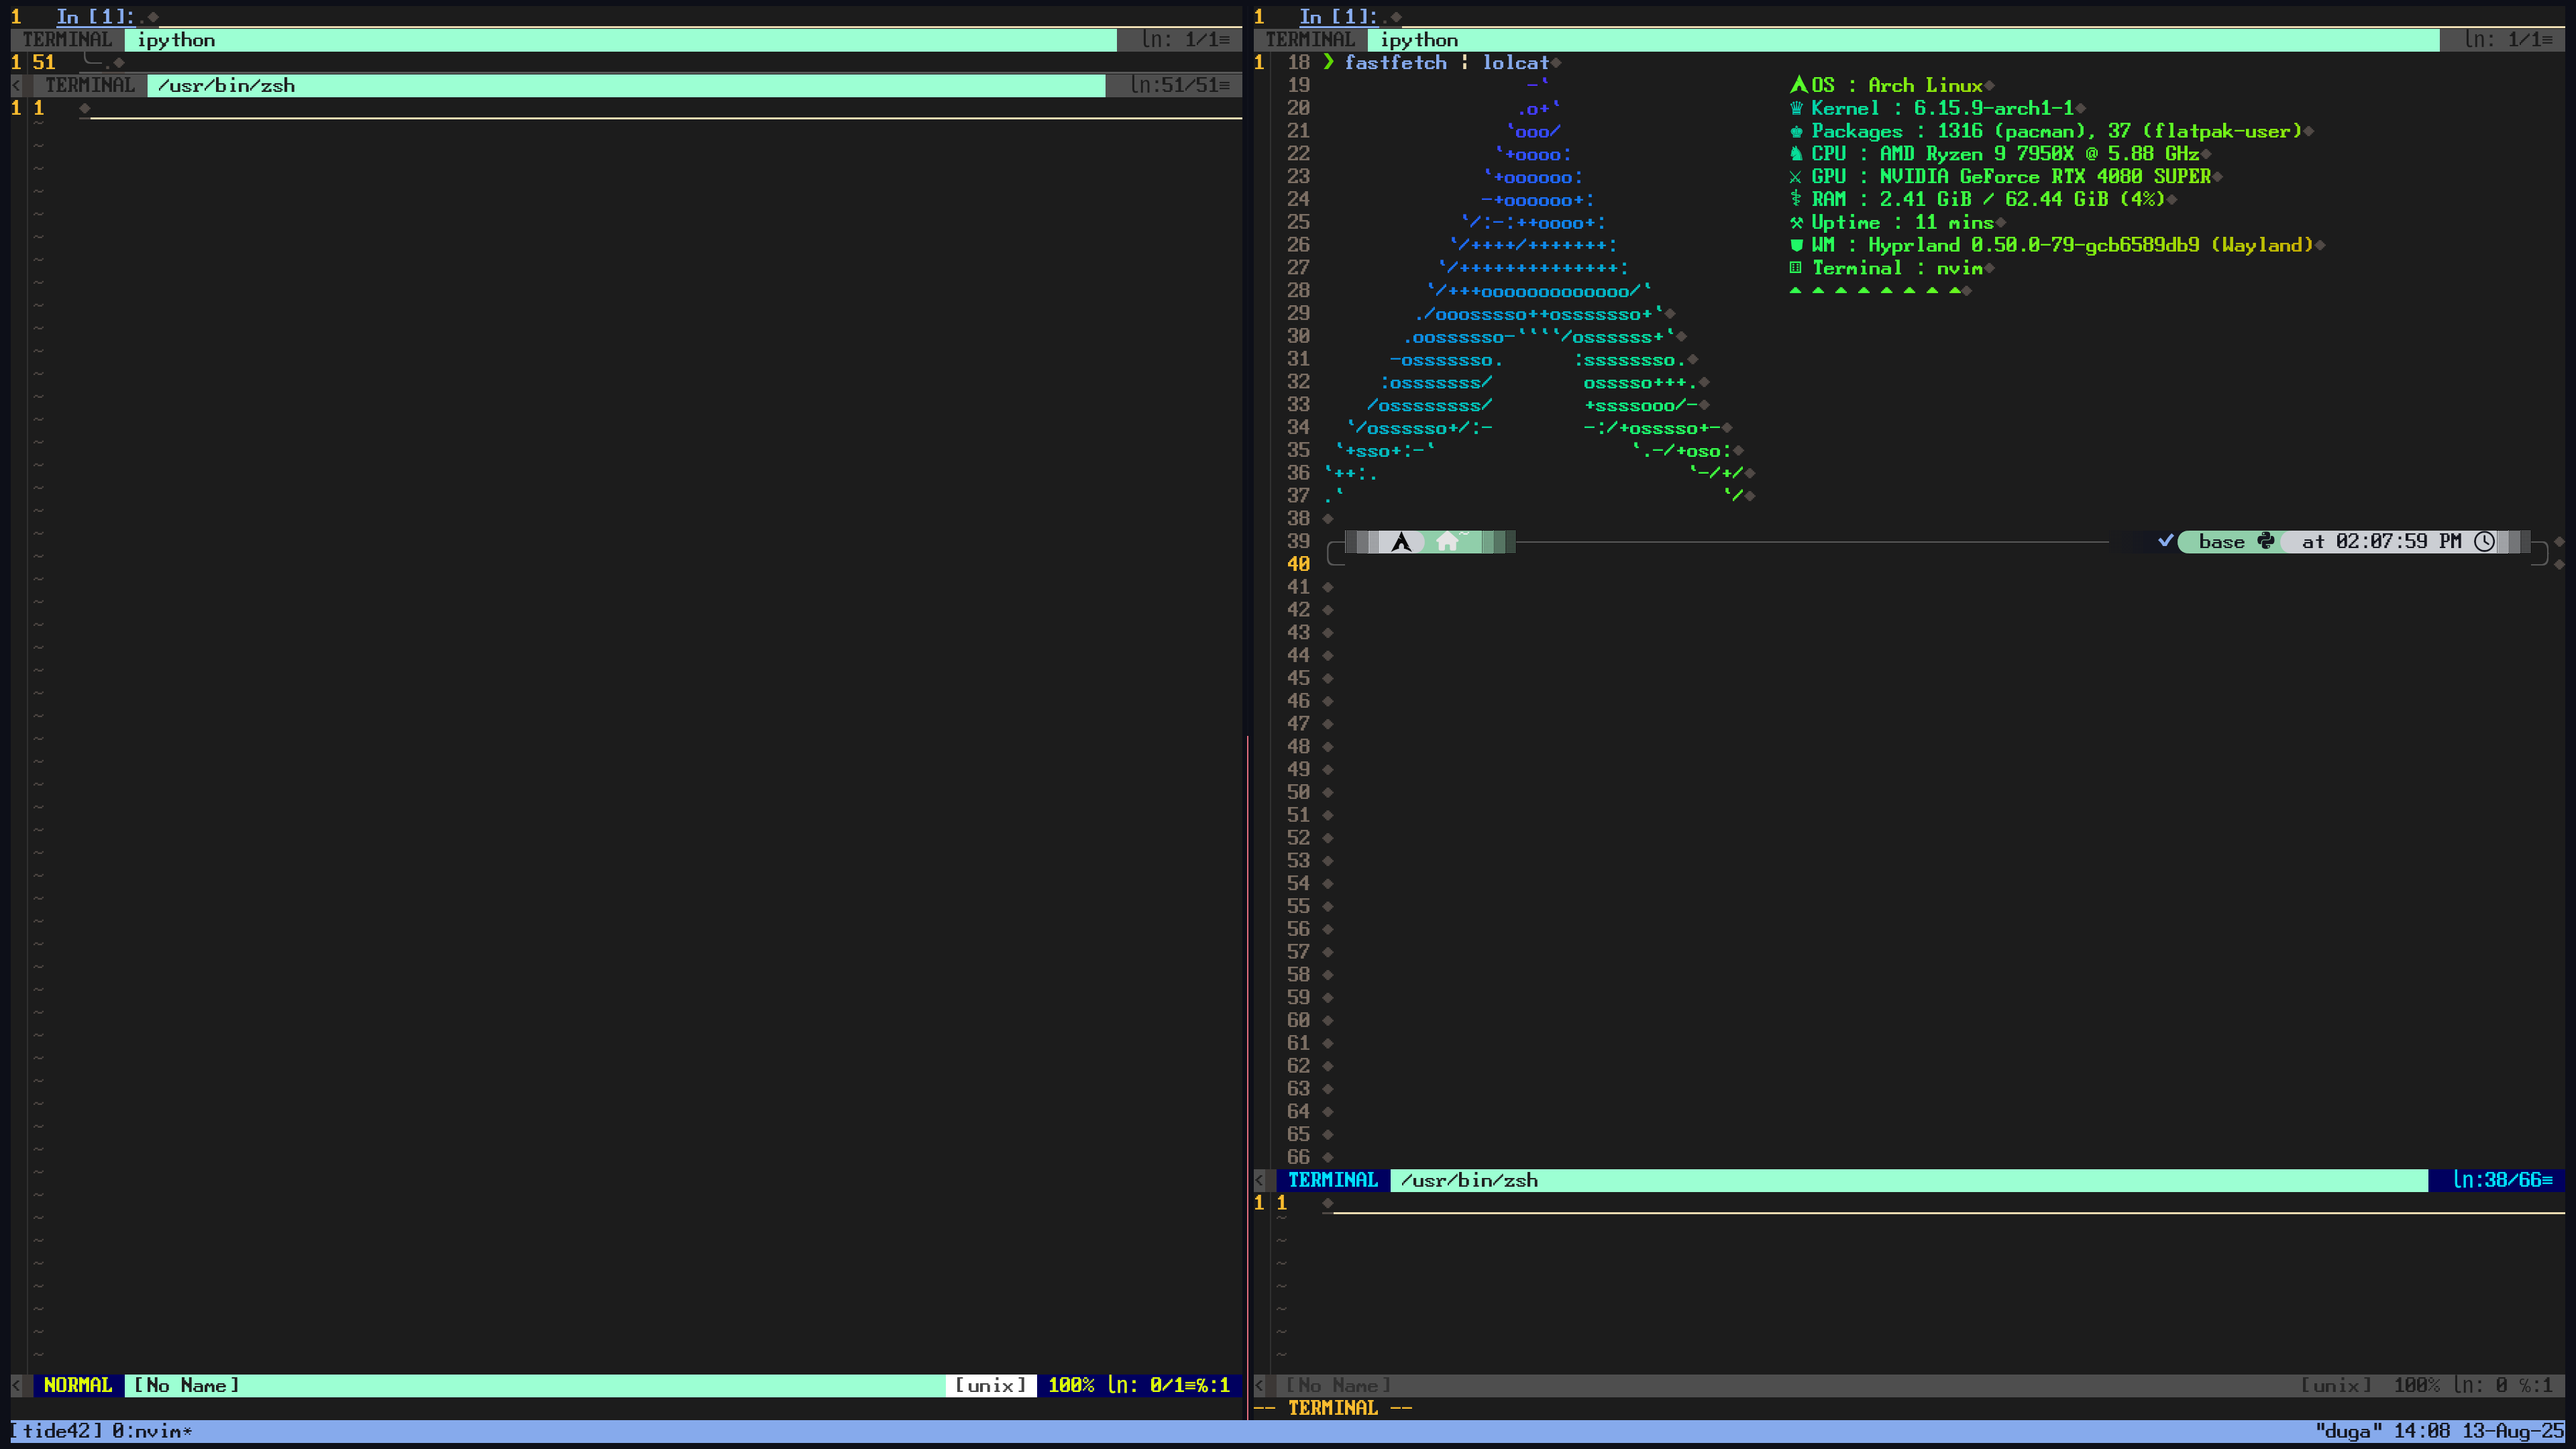
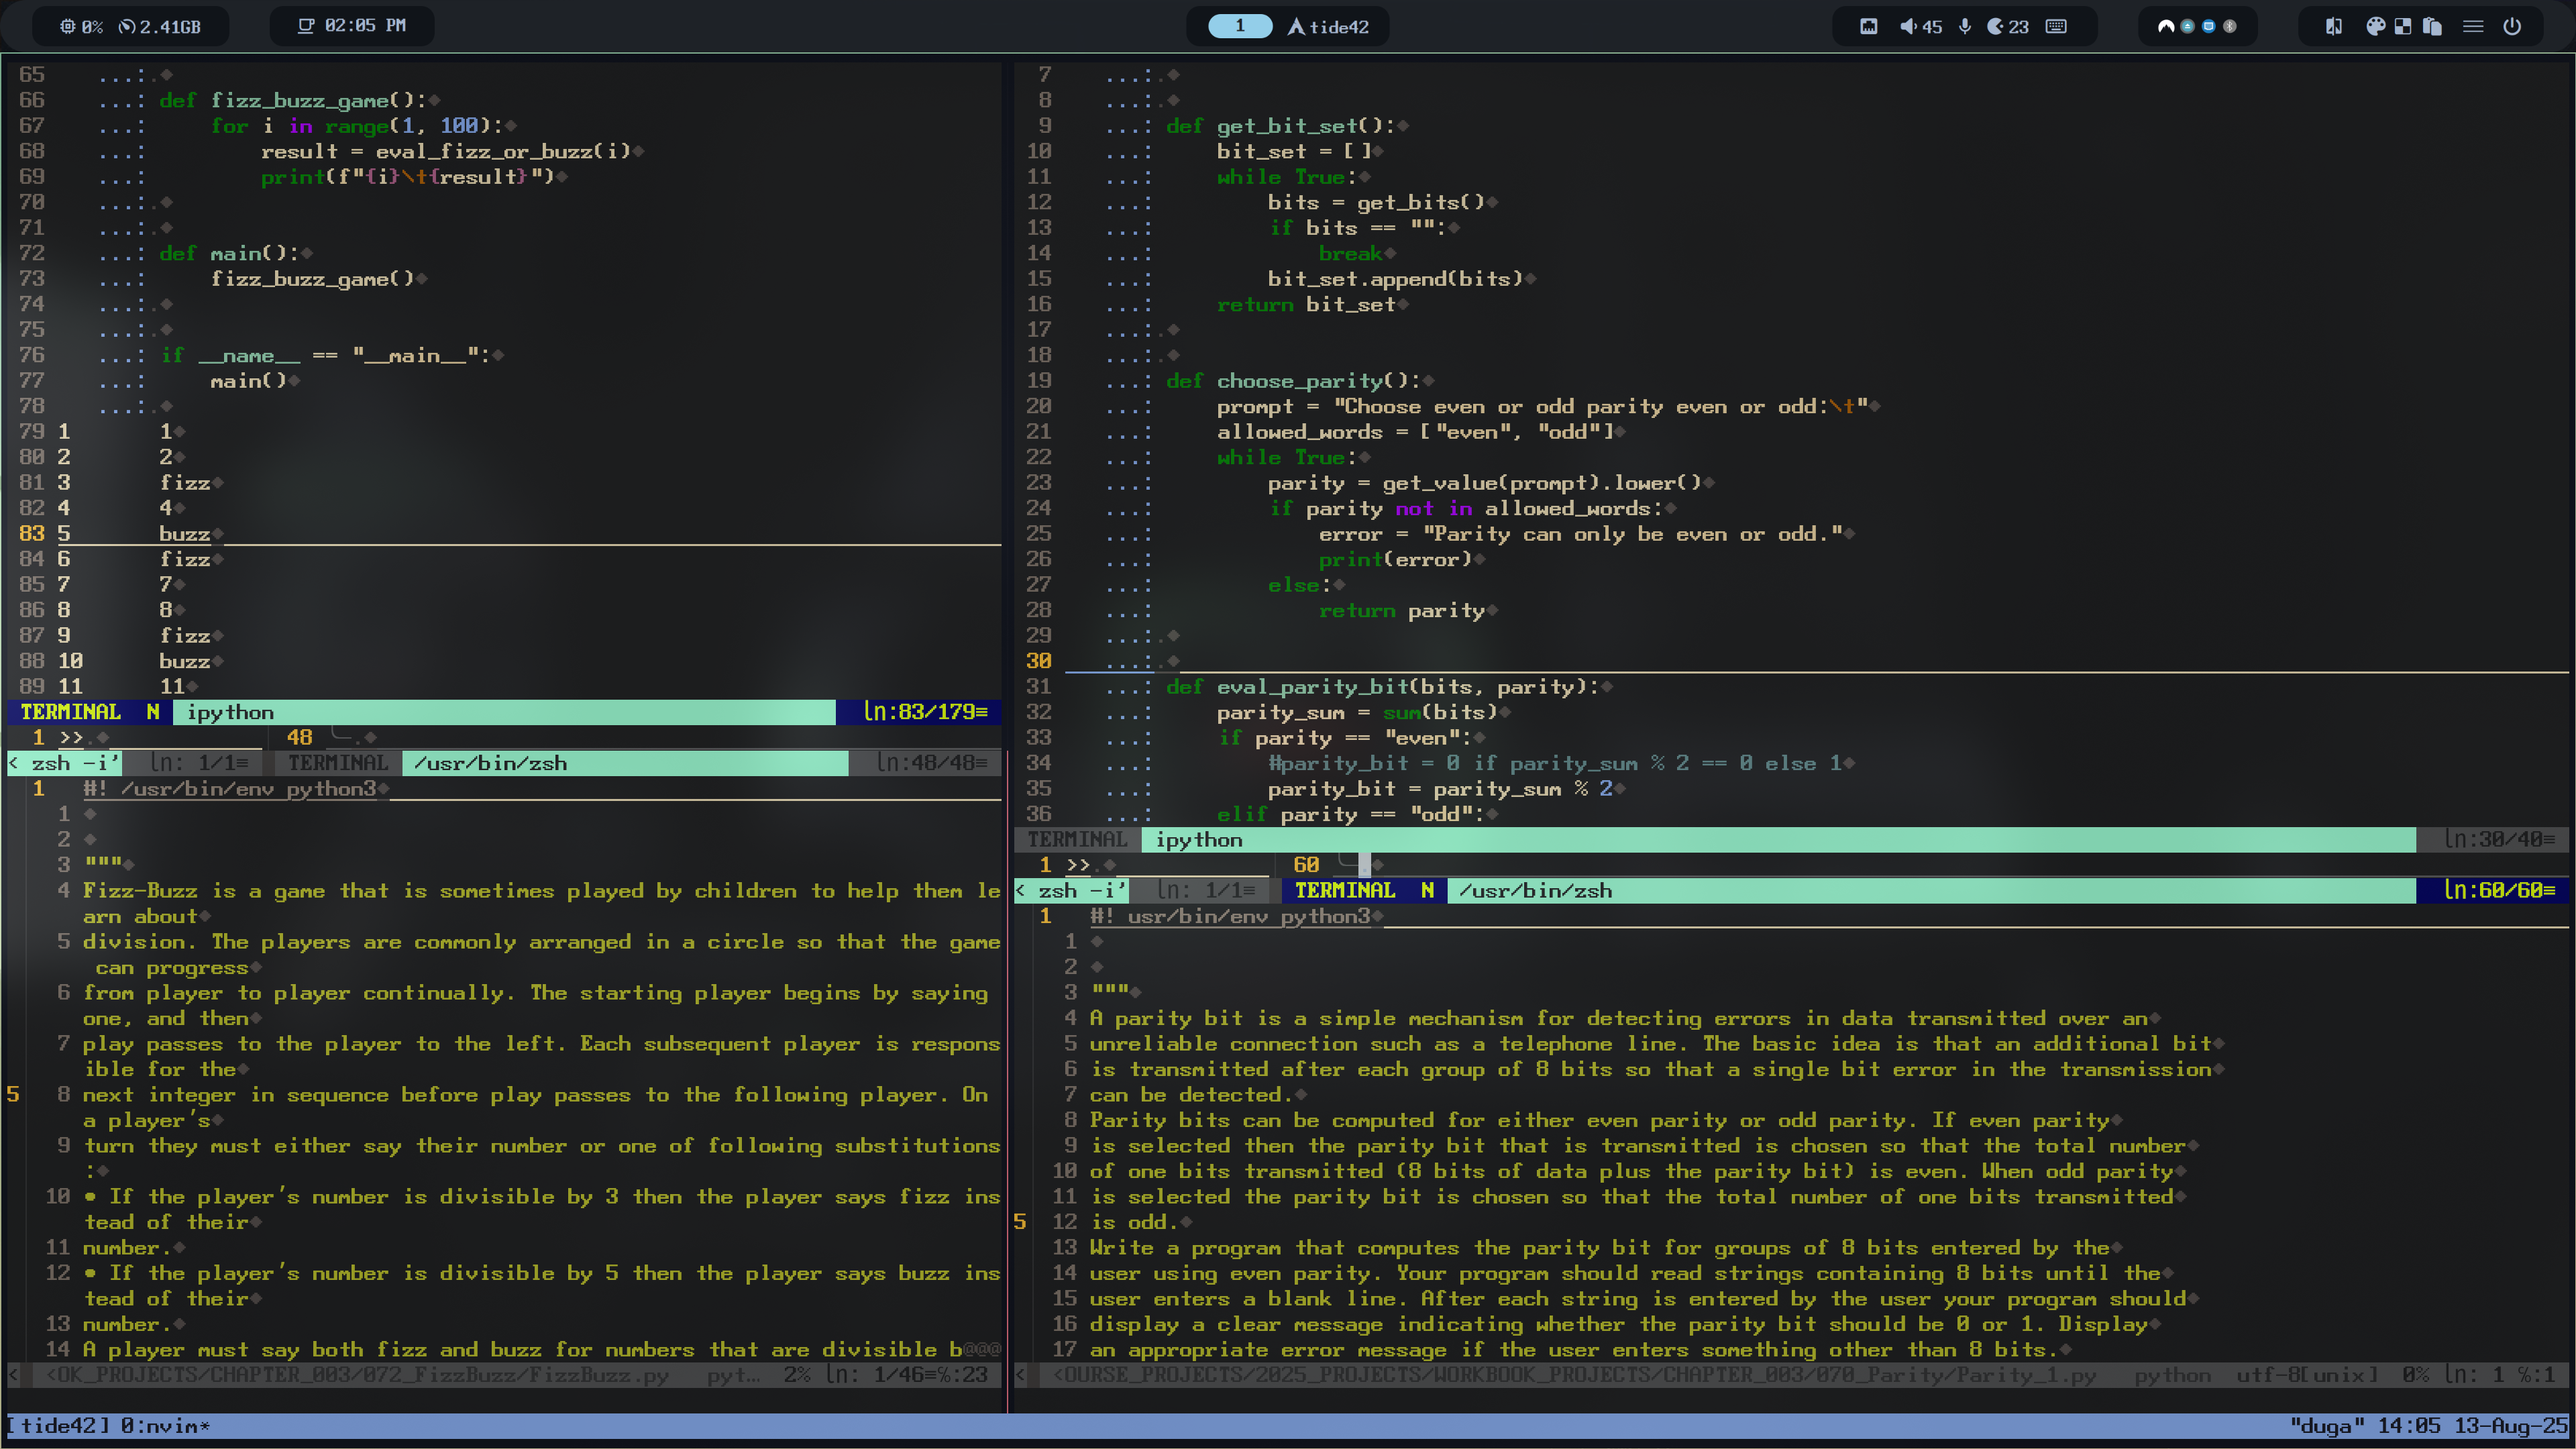
Updated screenshots and descriptions

diff --git a/README.md b/README.md
@@ -289,11 +289,8 @@ Pull requests, stars, and forks welcome
 ### Tide42 running bash X11
 ![Bash](Screenshots/Screenshot0.png)
 
-### Tide42 on Wayland
-![Wayland](Screenshots/Screenshot1.png)
-
-### Integrated Ipython usage example
-![Ipython](Screenshots/Screenshot2.png)
+### Tide42 on Wayland/Integrated Ipython usage example
+![Wayland/Ipython](Screenshots/Screenshot1.png)
 
 ### Termic C/C++ Live Shell usage example
 ![TermiC cpp](Screenshots/Screenshot3.png)
